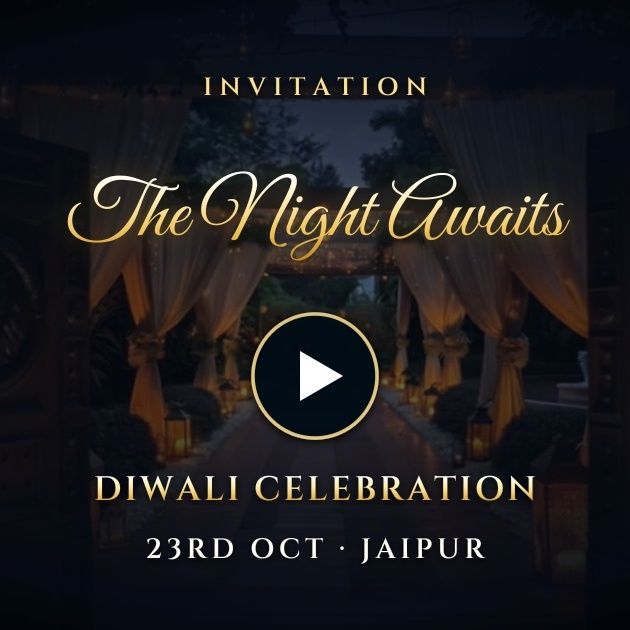
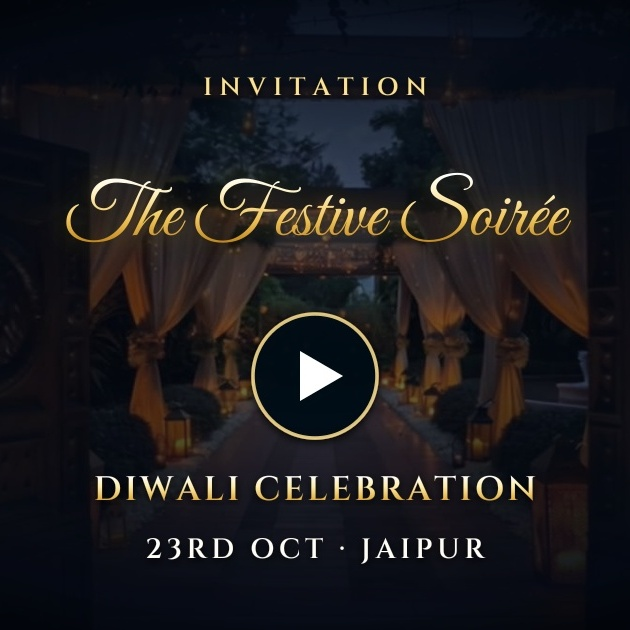
feat(diwali): update hero branding from The Night Awaits to The Festive Soirée for Diwali Main Invite

Changed region(s): [[0.0905, 0.2714, 0.9048, 0.4222]]

diff --git a/src/components/VideoScreen.tsx b/src/components/VideoScreen.tsx
@@ -858,7 +858,7 @@ export default function VideoScreen({
               {isSaveDate
                 ? 'SAVE THE DATE'
                 : isDiwaliEvent
-                ? 'THE FESTIVAL OF LIGHTS AWAITS'
+                ? 'THE FESTIVE SOIRÉE'
                 : 'THE NIGHT AWAITS'}
             </h1>
 
@@ -965,7 +965,7 @@ export default function VideoScreen({
                   }}
                 >
                   {isDiwaliEvent ? (
-                    <span>THE FESTIVAL OF LIGHTS AWAITS</span>
+                    <span>THE FESTIVE SOIRÉE</span>
                   ) : (
                     <>
                       <span className="block sm:inline">ONE NIGHT. </span>

diff --git a/src/app/i/[code]/page.tsx b/src/app/i/[code]/page.tsx
@@ -96,9 +96,9 @@ export async function generateMetadata({ params, searchParams }: Props) {
   } else {
     // Main Invite
     if (isDiwali) {
-      title = "The Night Awaits — Khandelwal Diwali Celebration"
+      title = "The Festive Soirée — Khandelwal Diwali Celebration"
       description = "Personal Video Invitation • Tap to open"
-      ogImageUrl = "https://khandelwalinvite.vercel.app/og-diwali-main.jpg?v=5"
+      ogImageUrl = "https://khandelwalinvite.vercel.app/og-diwali-main.jpg?v=6"
     } else {
       title = "The Night Awaits — Arpit's 40th & Diwali Celebration"
       description = "Personal Video Invitation • Tap to open"

diff --git a/build_production_og.js b/build_production_og.js
@@ -152,7 +152,8 @@ async function run() {
   // 2. Diwali Celebration Main Invite
   await renderCard({
     outputPath: 'public/og-diwali-main.jpg',
-    scriptTitle: 'The Night Awaits',
+    scriptTitle: 'The Festive Soirée',
+    scriptSize: 76,
     bottomLine1: "DIWALI CELEBRATION",
     bottomLine2: "23RD OCT · JAIPUR"
   });
